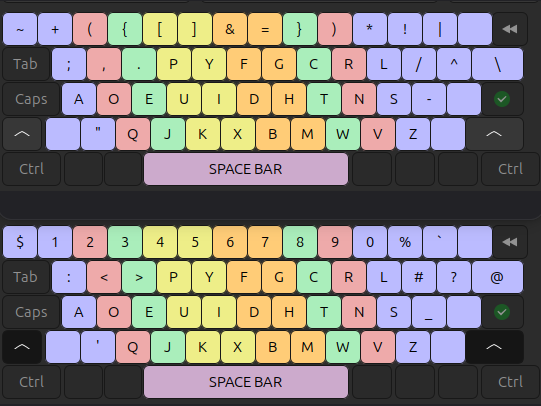
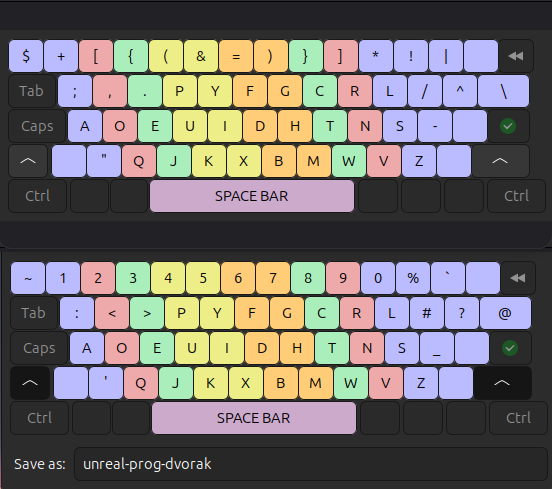
mod layout and added kickstart autosuggest binds

diff --git a/nvim/.config/VimMotions.md b/nvim/.config/VimMotions.md
@@ -1,13 +1,105 @@
-# Vim Motions Cheatsheet
+# Practical vim by Drew Neil 
 
-. repeats the last change
-; repeats the last command
-, repeats backwards 
+/search - search through the term
+`*` - pressing starts a search of the word under the cursor 
+
+. - repeats the last change
+U - undo the last change
+; - repeats the last command
+, - repeats the last f search backwards 
+n - move through searchs
+N - move backwards through searchs
+
+
 
 Ctrl [ - same as escape
-C deletes to the end of line
-cc deletes entire line and enters insert mode
-P pastes before instead of after like p
+C - deletes to the end of line
+cc - deletes entire line and enters insert mode
+P - pastes before instead of after like p
+
+A - move to the end of the current line and enter insert mode 
+I - move to the start of the current line and enter insert mode 
+s - same as x and i. deletes the char under the cursor and enter insert mode 
+
+> [!TIP]
+> Repeating a command causes it to work on an entire line 
+
+= - auto indents
+*> - indents the selected text *
+*>> - indets the current line *
+*>G - indents to the end of the file*
+*>gg - indents to the start of the file*
+*> (jk) - indents the current line and the above or below*
+
+
+### The vim way 
+
+> [!TIP]
+> The dot command 
+
+In insert mode Vim records every keystroke so :
+    If i want to put a semi colon at the end of many lines I can 
+        add the semi colon and then 
+        j. 
+        to repeat the change to the next line
+
+or if i want to convert **var foo = "method("+argument1+","+argument2+")";**  to **var foo = "method(" + argument1 + "," + argument2 + ")";**
+    f+ 
+    i 
+    delete the +
+    insert *space plus space* (delete)
+    ; - to repeat the f+
+    . - to repeat the change 
+
+Lets say that were to change some but not all occurences of a word 
+    `*` - to start a search for the word under the cursor
+    cw new_word - to replace 
+    n - to move to the next occurence of the word we want to replace 
+    . - to repeat the cw command
+
+
+## Modes
+
+### Normal mode 
+
+In vim the undo command has different granularity.
+When we enter insert mode that also counts as a change and the undo command will **undo until the last time we hit undo**
+So controlling how often we hit u, we can control how much we undo
+
+As a general rule, if you’ve paused for long enough to ask the question, “Should I leave Insert mode?” 
+
+> [!WARNING]
+If we use the <Up> , <Down> , <Left> , or <Right> cursor keys while in Insert mode, a new undo
+chunk is created. It’s just as though we had switched back to Normal mode to move
+around with the h , j , k , or l commands, except that we don’t have to leave Insert mode. 
+This also has implications on the operation of the dot command.
+
+> [!TIP]
+Text objects - define the kind of text objects to operate on
+
+:help aw - to see the different types of objects 
+
+l - character
+w - word
+W - contiguous text
+s - sentence
+p - paragraph
+{ - closest enclosing brackets
+t - tag eg html tags
+
+
+<C-a> and <C-x> commands perform addition and subtraction on the number under the cursor or the next occurence scoped to a word object.
+10<C-a> - will add 10 to the number
+
+
+gUaw - capitalizes the text object specified 
+gu - lower case
+g~ - swap the cases 
+
+## Insert Mode 
+
+
+
 
 
 

diff --git a/xkb/README.md b/xkb/README.md
@@ -80,6 +80,10 @@ gsettings reset org.gnome.desktop.input-sources sources
 gsettings reset org.gnome.desktop.input-sources mru-sources
 gsettings set org.gnome.desktop.input-sources sources "[('xkb', 'us'), ('xkb', 'unreal-prog-dvorak')]"
 
+
+gsettings set org.gnome.desktop.input-sources xkb-options "[]"
+gsettings set org.gnome.desktop.input-sources xkb-options "['caps:ctrl_modifier']"
+
 ```
 
 ---
